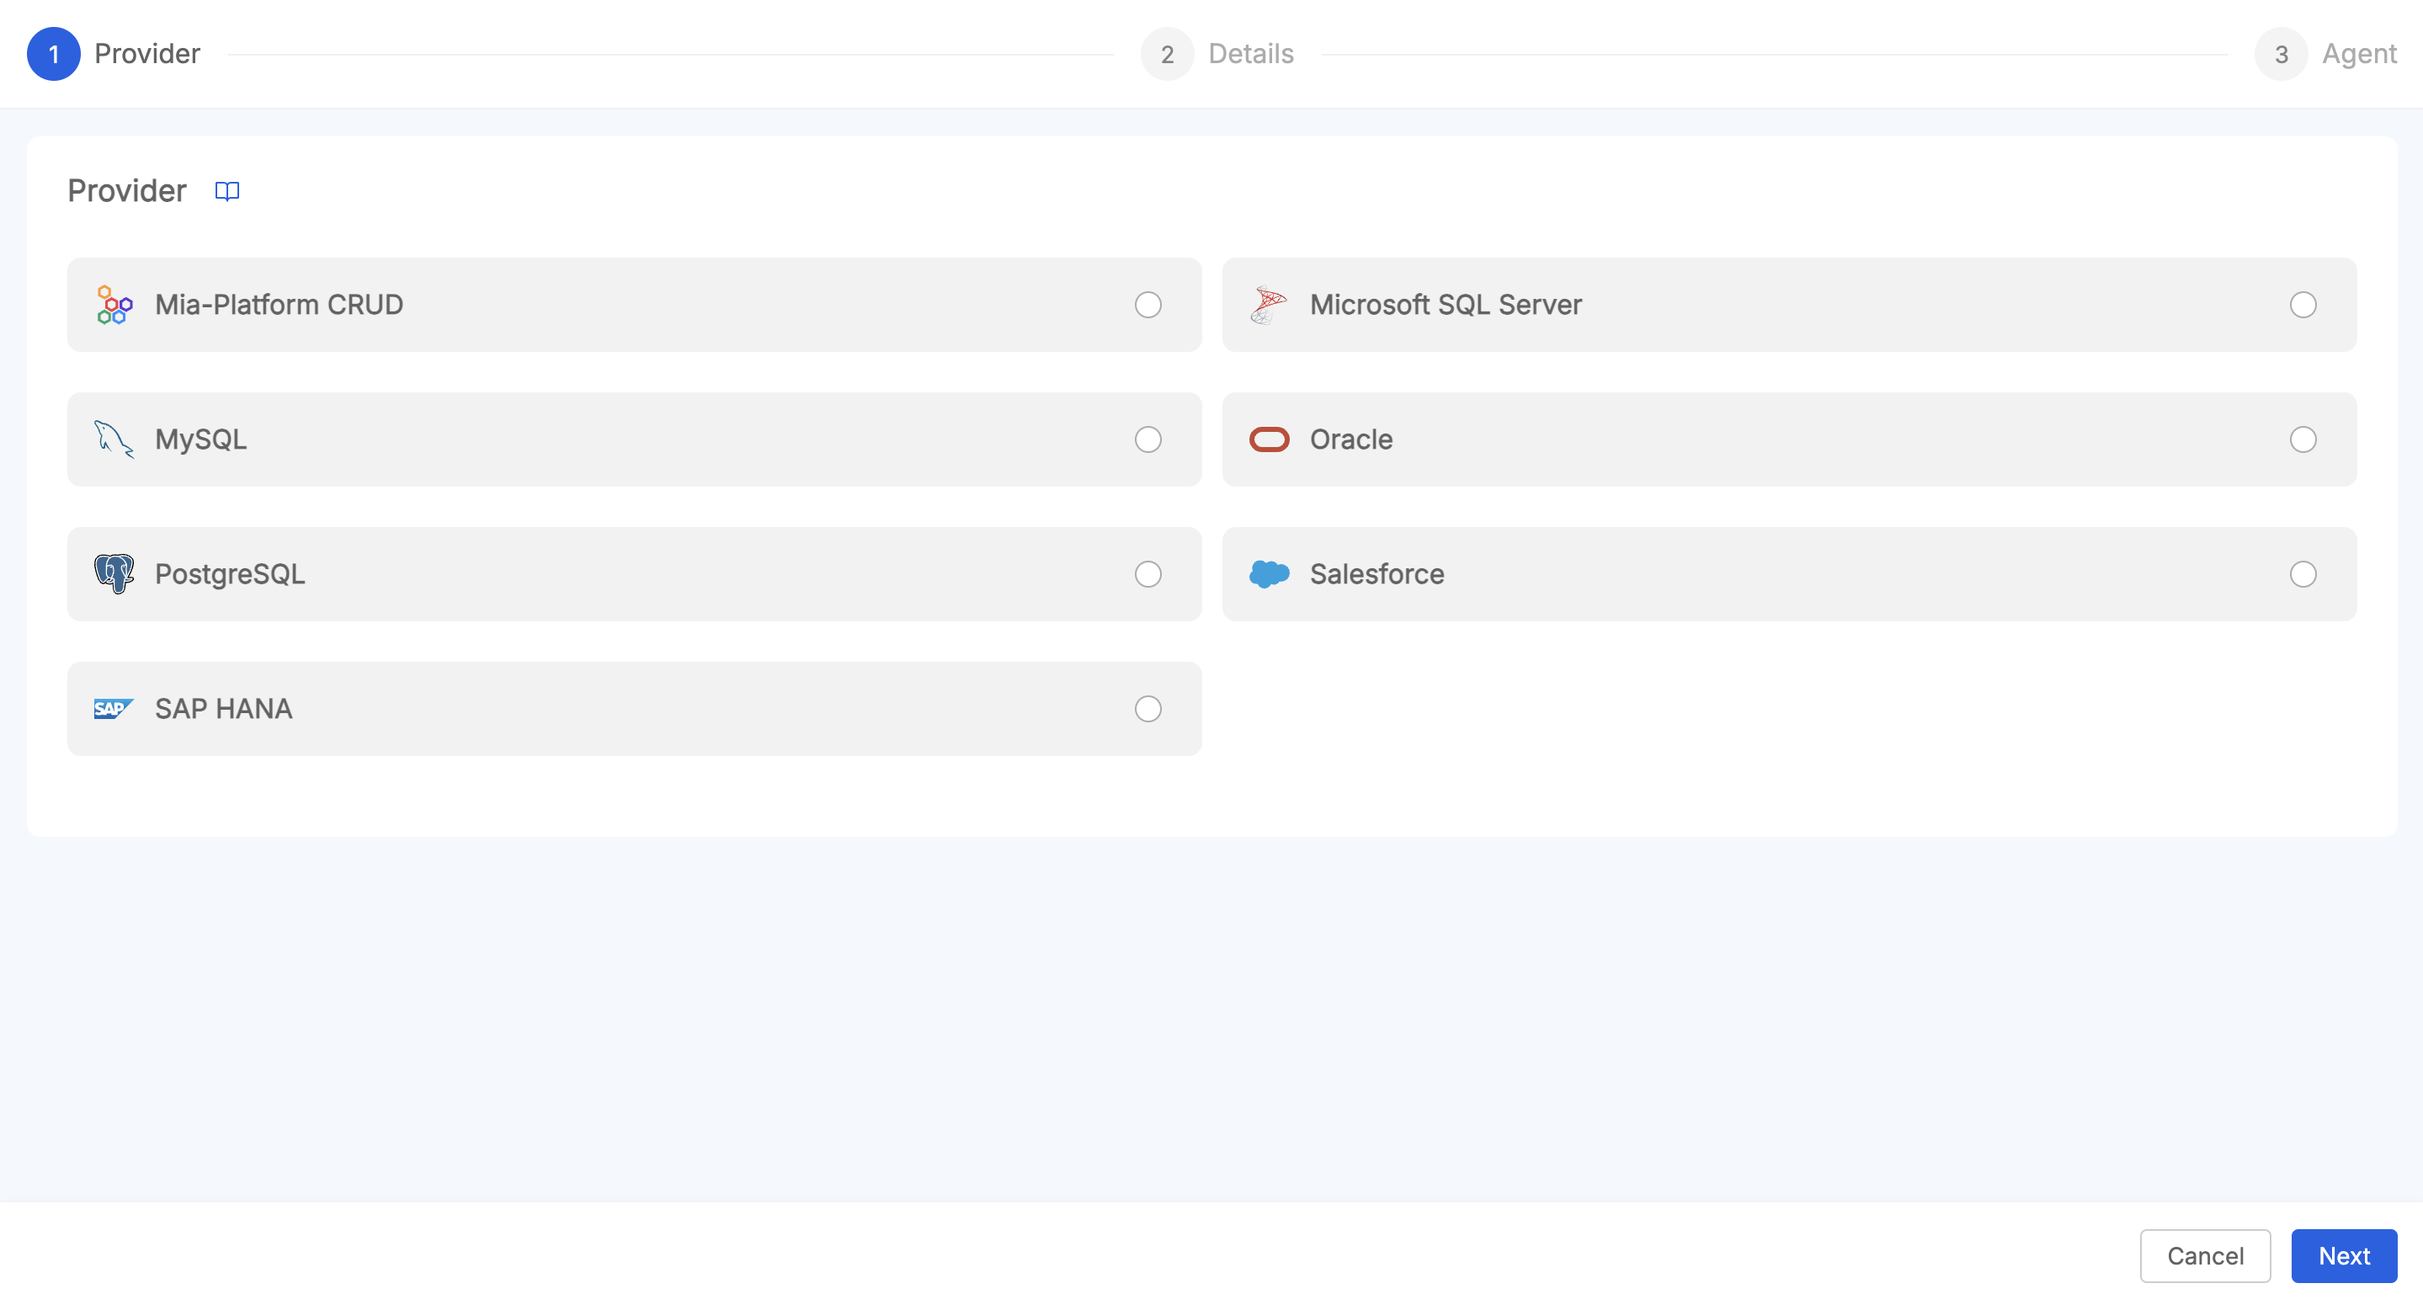
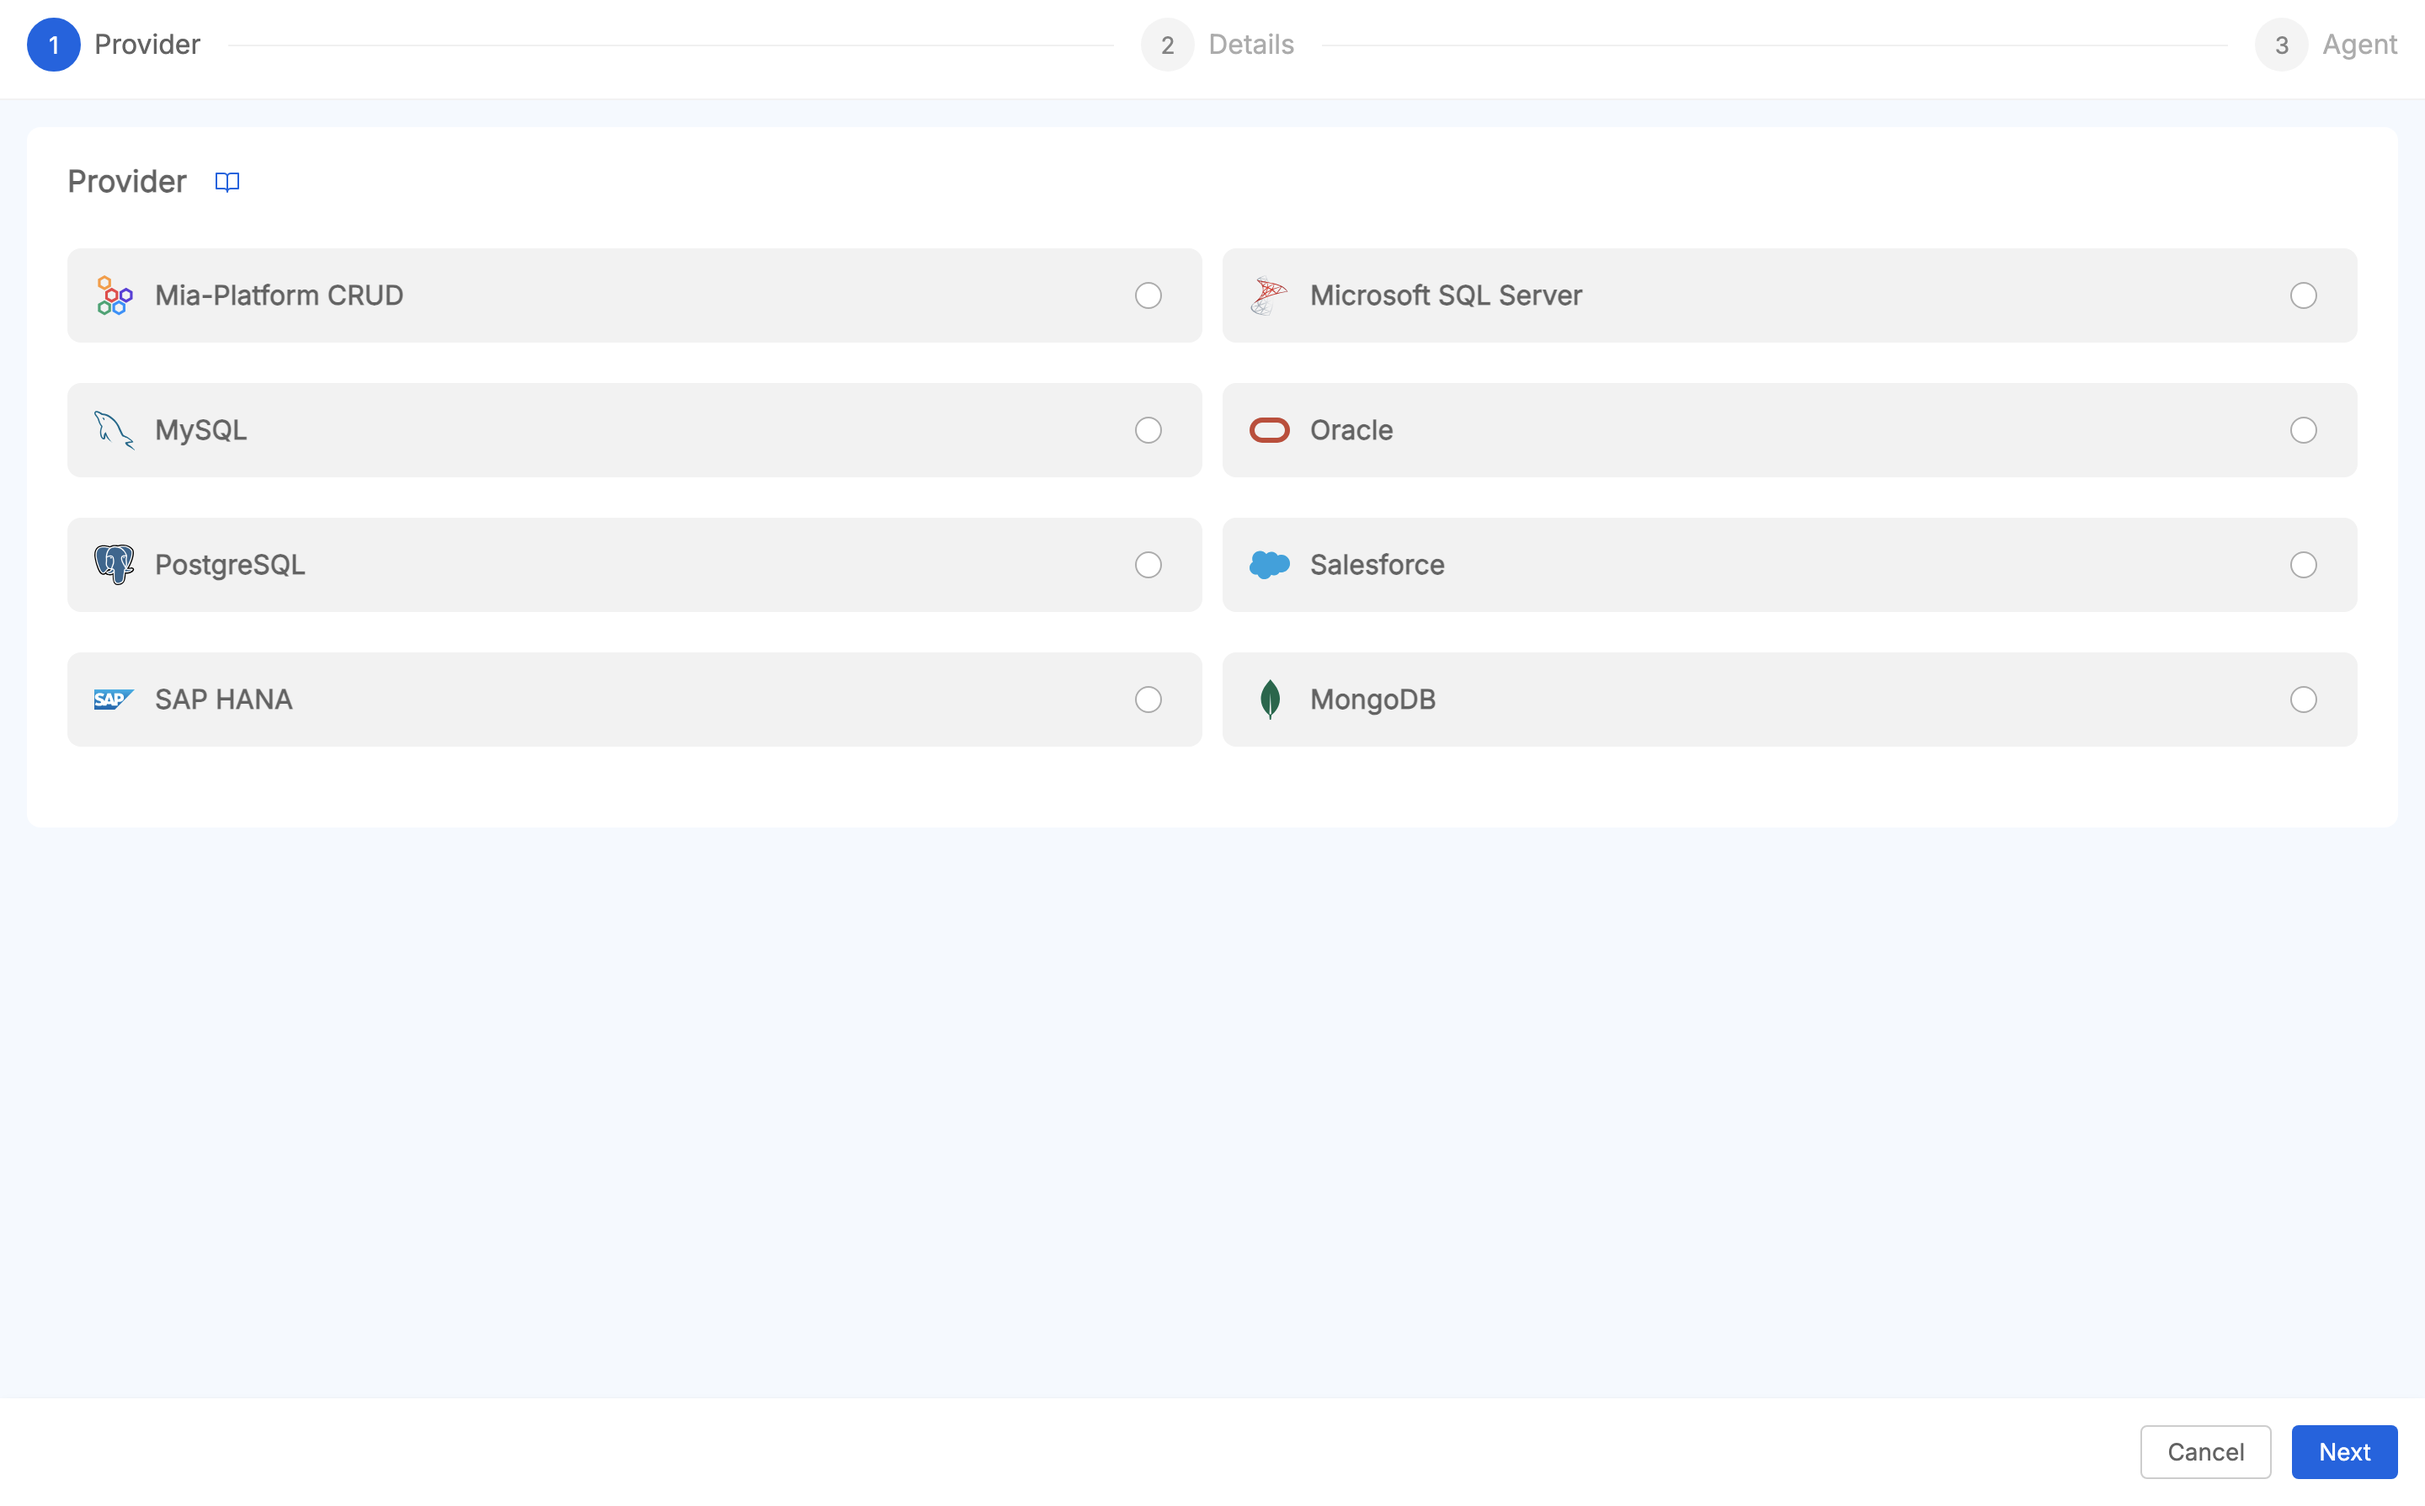
feat(catalog): add mongodb native connection details (#2052)
* feat(catalog): add mongodb native connection details

* small adjustments

* fix img

* Update docs/data_catalog/frontend/data_catalog_connections.mdx

* Update docs/data_catalog/frontend/data_catalog_connections.mdx

* small fixes

* feat(catalog): update compatibility matrix

* feat(catalog): update compatibility matrix

* chore: spellcheck

* chore: spellcheck

---------

diff --git a/docs/data_catalog/compatibility_matrix.md b/docs/data_catalog/compatibility_matrix.md
@@ -17,24 +17,25 @@ Please ensure that versions shown in the matrix are respected in your deployed e
 | [Fabric BFF](/data_catalog/data_catalog_fabric_bff.mdx)     | 0.1.x - 0.3.x   | \>=5.0  | _N/A_  |
 | [Open Lineage](/data_catalog/data_catalog_open_lineage.mdx) | 0.1.x - 0.3.x   | \>=5.0  | \>=7.0 |
 | [Job Runner](/data_catalog/data_catalog_job_runner.mdx)     | 0.1.x - 0.2.x   | \>=5.0  | _N/A_  |
-| [Fabric Admin](/data_catalog/database_setup.mdx)   | 0.1.x - 0.4.x   | \>=5.0  | _N/A_  |
+| [Fabric Admin](/data_catalog/database_setup.mdx)            | 0.1.x - 0.5.x   | \>=5.0  | _N/A_  |
 <p><sup>*</sup><em>N/A</em> means the service does not depend on the resource</p>
 
 ## Service Latest Versions
 
 | Service                                                          | Version |
 | ---------------------------------------------------------------- | ------- |
-| [Fabric BFF](/data_catalog/data_catalog_fabric_bff.mdx)          | 0.3.0   |
-| [Open Lineage](/data_catalog/data_catalog_open_lineage.mdx)      | 0.3.1   |
-| [Job Runner](/data_catalog/data_catalog_job_runner.mdx)          | 0.2.0   |
-| [Data Catalog Frontend](/data_catalog/frontend/overview.mdx)     | 0.3.0   |
-| [Fabric Admin](/data_catalog/database_setup.mdx)                 | 0.4.0   |
+| [Fabric BFF](/data_catalog/data_catalog_fabric_bff.mdx)          | 0.3.3   |
+| [Open Lineage](/data_catalog/data_catalog_open_lineage.mdx)      | 0.3.5   |
+| [Job Runner](/data_catalog/data_catalog_job_runner.mdx)          | 0.2.2   |
+| [Data Catalog Frontend](/data_catalog/frontend/overview.mdx)     | 0.3.2   |
+| [Fabric Admin](/data_catalog/database_setup.mdx)                 | 0.5.2   |
 
 ## Internal Compatibility
 
-| Service                                                          | Fabric BFF | Open Lineage | Job Runner |
-| ----------------------------------------------------------------: | :-: | :-: | :-: |
-| [Fabric BFF](/data_catalog/data_catalog_fabric_bff.mdx)     - 0.3.0   | N/A | 0.3.1 | 0.2.0 |
-| [Open Lineage](/data_catalog/data_catalog_open_lineage.mdx) - 0.3.1   | 0.3.0 | N/A | 0.2.0 |
-| [Job Runner](/data_catalog/data_catalog_job_runner.mdx)     - 0.2.0   | 0.3.0 | 0.3.1 | N/A |
-| [Data Catalog Frontend](/data_catalog/frontend/overview.mdx) - 0.3.0  | 0.3.0 | N/A | N/A |
+| Service                                                               | Fabric BFF | Open Lineage | Job Runner | Fabric Admin |
+| --------------------------------------------------------------------: | :-------:  | :-----------:| :--------: | :----------: |
+| [Fabric BFF](/data_catalog/data_catalog_fabric_bff.mdx) - 0.3.3       | N/A        | 0.3.5        | 0.2.2      | 0.5.2        |
+| [Open Lineage](/data_catalog/data_catalog_open_lineage.mdx) - 0.3.5   | 0.3.3      | N/A          | 0.2.2      | 0.5.2        |
+| [Job Runner](/data_catalog/data_catalog_job_runner.mdx)     - 0.2.2   | 0.3.3      | 0.3.5        | N/A        | N/A          |
+| [Data Catalog Frontend](/data_catalog/frontend/overview.mdx) - 0.3.2  | 0.3.3      | N/A          | N/A        | N/A          |
+| [Fabric Admin](/data_catalog/database_setup.mdx)  - 0.5.2             | 0.3.3      | 0.3.5        | 0.2.2      | N/A          |
